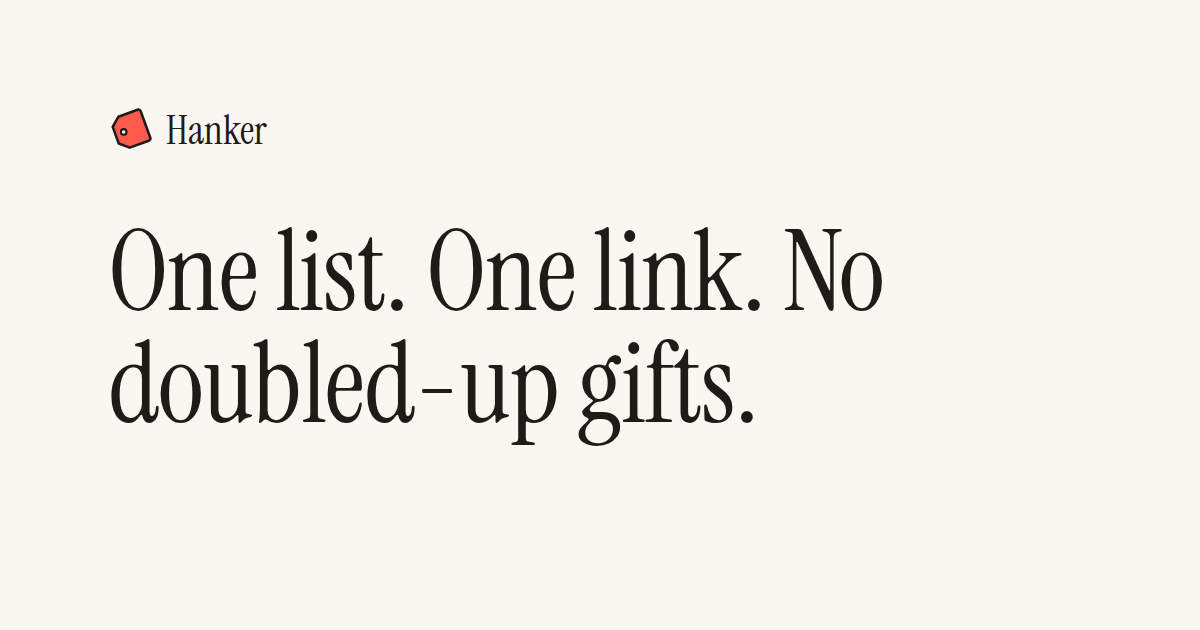
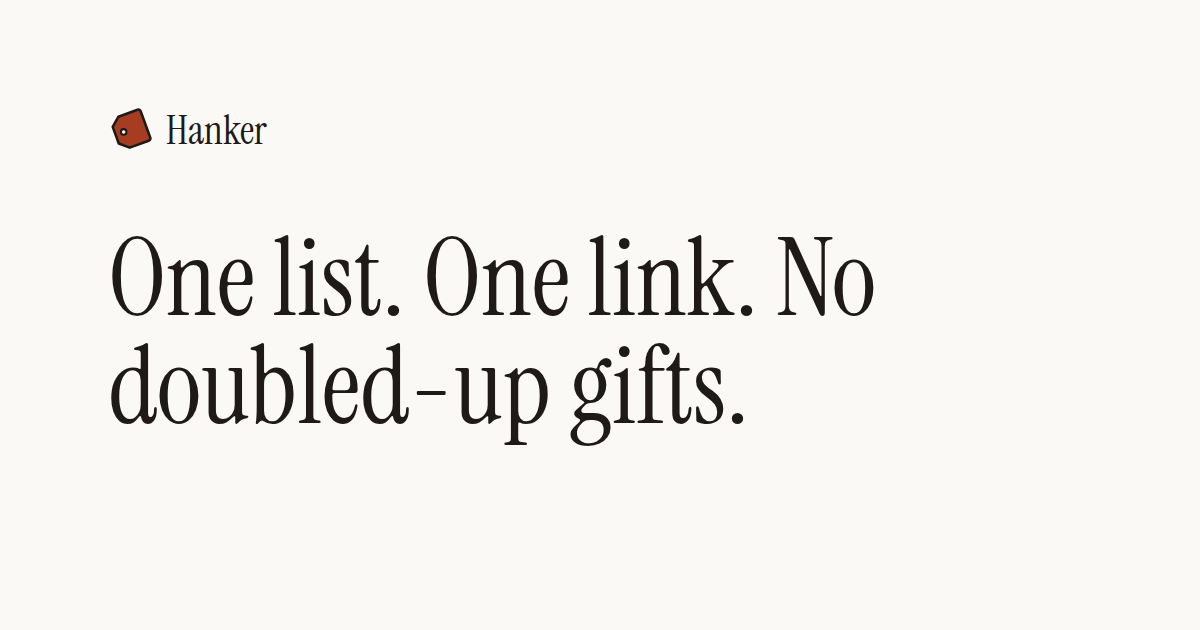
feat(web): move the palette to a deep terracotta with an espresso focus ring (#258)
D89 revises D28's palette and D62's active pills:

- paper #fbf9f5 ground, canvas #f4f0e8 cards with slate #5c554e borders,
  espresso #1f1a17 text
- primary #a63d20 with white text (6.3:1) and a new rust #822e15
  hover/press token
- active filter pills terracotta with white text; inactive pills canvas
  with slate text
- focus rings espresso, 2px with a 2px gap; a focused primary button gets
  a white band inside the ring, with a transparent outline kept for
  forced-colors mode
- favicon, apple-icon and link preview re-rendered in the new colours,
  at Plan 6's sizes and layout

Changed region(s): [[0.0925, 0.3619, 0.74, 0.5127], [0.0925, 0.5429, 0.6475, 0.7238], [0.0925, 0.181, 0.1233, 0.2413]]

diff --git a/apps/web/src/components/ui/button.tsx b/apps/web/src/components/ui/button.tsx
@@ -3,7 +3,12 @@ import type { ComponentProps } from 'react';
 import { cn } from '@/lib/utils';
 
 /**
- * Terracotta for the main action, with espresso text (5.5:1); white on terracotta fails AA.
+ * Terracotta for the main action, with white text (6.3:1), darkening to rust on hover and press.
+ *
+ * A focused primary button gets a dual-layer ring (D89): a white band against the button, then the
+ * espresso ring. The band keeps the ring off terracotta wherever the button sits. The shadow
+ * replaces the base outline, which stays as a transparent outline at the same place, because
+ * forced-colors mode drops shadows and draws the outline in a system color.
  *
  * Hovering lifts a button 1px, and only while hovered an empty strip (`after:`) fills the gap the
  * lift opens below it. So the hovered button covers everywhere the resting one did: otherwise a
@@ -12,11 +17,12 @@ import { cn } from '@/lib/utils';
  * `top-full` starts inside the bottom border: 1px of it covers a bordered button's border.
  */
 const variants = cva(
-  'relative inline-flex items-center justify-center gap-2 rounded-control px-5 text-[15px] font-semibold no-underline transition-[box-shadow,transform] duration-200 after:absolute after:inset-x-0 after:top-full hover:-translate-y-px hover:after:h-0.5 hover:shadow-[0_8px_18px_rgba(30,27,24,0.16)] active:translate-y-0 disabled:pointer-events-none disabled:opacity-60 motion-reduce:hover:translate-y-0',
+  'relative inline-flex items-center justify-center gap-2 rounded-control px-5 text-[15px] font-semibold no-underline transition-[background-color,box-shadow,transform] duration-200 after:absolute after:inset-x-0 after:top-full hover:-translate-y-px hover:after:h-0.5 hover:shadow-[0_8px_18px_rgba(30,27,24,0.16)] active:translate-y-0 disabled:pointer-events-none disabled:opacity-60 motion-reduce:hover:translate-y-0',
   {
     variants: {
       variant: {
-        primary: 'bg-primary text-primary-foreground',
+        primary:
+          'bg-primary text-primary-foreground hover:bg-primary-hover focus-visible:shadow-[0_0_0_2px_var(--primary-foreground),0_0_0_4px_var(--ring)] focus-visible:outline-transparent active:bg-primary-hover',
         secondary: 'border border-border bg-card text-foreground',
         strong: 'bg-foreground text-background',
         link: 'px-0 font-medium underline hover:translate-y-0 hover:shadow-none',

diff --git a/apps/web/src/app/globals.css b/apps/web/src/app/globals.css
@@ -1,21 +1,23 @@
 @import 'tailwindcss';
 
 /*
- * Hanker's Warm Editorial palette (Ted, 2026-10-10; Plan 2b's theme table). The names follow
- * shadcn/ui's semantic tokens, so components copied from it work unchanged. Terracotta (--primary)
- * is for actions only: at 2.9:1 on sand it can't carry text, so text on it is espresso.
+ * Hanker's Warm Editorial palette (D28, revised by D89 on 2026-10-26). The names follow shadcn/ui's
+ * semantic tokens, so components copied from it work unchanged. Terracotta (--primary) is dark
+ * enough to carry white text (6.3:1), and is 5.6:1 as text on a card. Rust (--primary-hover) is
+ * 8.9:1 with white. The espresso ring is 15:1 or more on every surface.
  */
 :root {
-  --background: #faf7f2;
-  --foreground: #1e1b18;
-  --card: #ffffff;
-  --card-foreground: #1e1b18;
-  --primary: #ff5a4d;
-  --primary-foreground: #1e1b18;
+  --background: #fbf9f5;
+  --foreground: #1f1a17;
+  --card: #f4f0e8;
+  --card-foreground: #1f1a17;
+  --primary: #a63d20;
+  --primary-hover: #822e15;
+  --primary-foreground: #ffffff;
   --muted-foreground: #5c554e;
-  --border: #1e1b18;
+  --border: #5c554e;
   --input: #8c847b;
-  --ring: #1e1b18;
+  --ring: #1f1a17;
   --success: #6b8e78;
   --success-foreground: #3f5a49;
   --success-wash: #e6eee8;
@@ -29,6 +31,7 @@
   --color-card: var(--card);
   --color-card-foreground: var(--card-foreground);
   --color-primary: var(--primary);
+  --color-primary-hover: var(--primary-hover);
   --color-primary-foreground: var(--primary-foreground);
   --color-muted-foreground: var(--muted-foreground);
   --color-border: var(--border);
@@ -48,7 +51,7 @@
 @layer base {
   :focus-visible {
     outline: 2px solid var(--ring);
-    outline-offset: 3px;
+    outline-offset: 2px;
   }
 
   a {

diff --git a/apps/web/src/components/share/filter-pill.ts b/apps/web/src/components/share/filter-pill.ts
@@ -1,7 +1,7 @@
 import { cn } from '@/lib/utils';
 
-// The filter row's pills (design §4, mockup A "charcoal when active"): parchment off, espresso on,
-// never terracotta. The button is the 44px hit area; the pill drawn inside it is 40px tall.
+// The filter row's pills (D89): canvas with slate text off, terracotta with white text on. The
+// button is the 44px hit area; the pill drawn inside it is 40px tall.
 
 /** The button around a pill. Its focus ring follows the pill's round ends. */
 export const PILL_HIT =
@@ -12,14 +12,14 @@ export function pillFace(on: boolean, outlined = false): string {
   return cn(
     'inline-flex min-h-10 items-center gap-1.5 rounded-full border px-4 text-[15px] font-medium whitespace-nowrap transition-colors duration-150',
     on
-      ? 'border-foreground bg-foreground text-background'
+      ? 'border-primary bg-primary text-primary-foreground'
       : outlined
         ? 'border-input bg-transparent text-foreground'
-        : 'border-input/30 bg-placeholder text-foreground',
+        : 'border-input/30 bg-card text-muted-foreground',
   );
 }
 
-/** A pill's count: small, tabular, muted; lighter and warm on espresso. */
+/** A pill's count: small, tabular, muted; softened white on terracotta (4.6:1). */
 export function pillCount(on: boolean): string {
-  return cn('text-xs tabular-nums', on ? 'text-placeholder/80' : 'text-muted-foreground');
+  return cn('text-xs tabular-nums', on ? 'text-primary-foreground/80' : 'text-muted-foreground');
 }

diff --git a/apps/web/src/components/list/suggested-tags.tsx b/apps/web/src/components/list/suggested-tags.tsx
@@ -90,7 +90,7 @@ export function SuggestedTags({
         // WCAG 2.5.3 (label in name) forbids. pointer-events-none lets a press on it reach the button.
         <span
           key={chip.key}
-          className="relative inline-flex max-w-full rounded-full border-[1.5px] border-dashed border-input hover:bg-placeholder has-[button:focus-visible]:outline-2 has-[button:focus-visible]:outline-offset-3 has-[button:focus-visible]:outline-ring"
+          className="relative inline-flex max-w-full rounded-full border-[1.5px] border-dashed border-input hover:bg-placeholder has-[button:focus-visible]:outline-2 has-[button:focus-visible]:outline-offset-2 has-[button:focus-visible]:outline-ring"
         >
           <button
             type="button"

diff --git a/apps/web/src/components/list/tag-field.tsx b/apps/web/src/components/list/tag-field.tsx
@@ -235,7 +235,7 @@ function TagCombobox({
             ref={chipRow}
             className={cn(
               'flex min-h-12 flex-wrap items-center gap-1.5 rounded-control border-[1.5px] border-input bg-card px-2 py-1.5',
-              'has-[input:focus-visible]:outline-2 has-[input:focus-visible]:outline-offset-3 has-[input:focus-visible]:outline-ring',
+              'has-[input:focus-visible]:outline-2 has-[input:focus-visible]:outline-offset-2 has-[input:focus-visible]:outline-ring',
               props['aria-invalid'] && 'border-destructive',
             )}
           >

diff --git a/docs/superpowers/specs/2026-10-07-wishlist-app-design.md b/docs/superpowers/specs/2026-10-07-wishlist-app-design.md
@@ -656,7 +656,7 @@ These follow the tags design ([§3, §4](2026-10-21-item-tags-and-filters-design
 - **The filter row** is one client island, `ShareFilterList`, rendered in both the gifter's view (inside `ShareClaimsProvider`) and the owner's view of `/s`. Its filter state lives in the island, so it survives the `router.refresh()` after a claim (D62).
   - The row is in the server HTML, drawn exactly as the first client render draws it, so the cards don't move when the island hydrates. Without JavaScript, CSS hides it (`@media (scripting: none)`, a media query in the stylesheet, so no `<noscript>` markup or inline style is needed), so the page stays readable and every item shows. It scrolls sideways inside itself, and the page never does.
   - It is a `role="group"` labelled "Filter the list": the price pill first, then one chip per tag that at least one item carries, ordered by item count (descending), ties by name with one `Intl.Collator('en')`, so Node and the browser agree.
-  - Chips are `aria-pressed` toggles named like "Kitchen gadgets, 4 items". Active pills are espresso (`--foreground`) with sand text; terracotta never marks a filter.
+  - Chips are `aria-pressed` toggles named like "Kitchen gadgets, 4 items". Active pills are terracotta (`--primary`) with white text, and inactive ones are canvas (`--card`) with slate text (D89, replacing D62's espresso pills).
   - Tags combine with AND and price bands with OR. Each chip shows how many items would be shown with it on, given the other selections, so counts move as you filter. A chip that would show nothing is dimmed and disabled, not removed.
   - Below the row, "N of M items" (a polite live region) and **Clear filters** appear once anything is on. If nothing matches, the list area says so, with a Clear filters button.
   - **Filtered-out cards get `hidden` and stay mounted,** so a card's own state, such as an open claim strip, survives filtering. Claimed items still show and still count.
@@ -692,7 +692,7 @@ These follow the tags design ([§3, §4](2026-10-21-item-tags-and-filters-design
 - Tailwind with shadcn/ui components, which are copied into the repo and built on Radix primitives.
 - Forms use react-hook-form with the shared Zod schemas.
 - The target is WCAG 2.2 AA.
-- The visual direction is **Warm Editorial Minimalism** (D28): a sand ground, espresso type and borders, terracotta for actions only, and sage for fulfilled states. Instrument Serif for headings, Geist for everything else, and 16px cards. The tokens live in `apps/web/src/app/globals.css`. The share page and the editor were mocked up for review before they were built (Plan 3b): the editor uses compact rows (D37), and the share page uses cards.
+- The visual direction is **Warm Editorial Minimalism** (D28, palette revised by D89): a warm paper ground, canvas cards with slate borders, espresso type, a deep terracotta for actions and active filters with white text and a rust hover, an espresso focus ring (a white band inside it on primary buttons), and sage for fulfilled states. Instrument Serif for headings, Geist for everything else, and 16px cards. The tokens live in `apps/web/src/app/globals.css`. The share page and the editor were mocked up for review before they were built (Plan 3b): the editor uses compact rows (D37), and the share page uses cards.
 
 ## 8. Testing
 
@@ -914,7 +914,7 @@ As of 2026-10-07 on the development machine:
 | D25 | `preview-seed` as a schema-only root branch, wiped and migrated from zero, refreshed in place (2026-10-08) | Clone of production then anonymized; a schema-only root branch per PR (exceeds Neon Free's 3 root branches) |
 | D26 | Product name **Hanker** on `hanker.dev` (2026-10-09). The user-facing name changes; code, packages, projects and tables keep `wishlist` | `hanker.app` and `hanker.com` (both registered); keeping the generic "Wishlist" |
 | D27 | A long-lived session cookie (400 days, set only at login); the database's sliding expiry is the only authority (2026-10-10) | A cookie tied to the 30-day session and reissued on refresh, which server-to-server calls lose; the web proxy reissuing it |
-| D28 | Warm Editorial Minimalism: sand, espresso, terracotta and sage, with Instrument Serif and Geist (2026-10-10) | Six mocked directions: Wish Book, Ribbon, Candlelight, Folio, Board, Letter |
+| D28 | Warm Editorial Minimalism: sand, espresso, terracotta and sage, with Instrument Serif and Geist (2026-10-10; **palette revised by D89**) | Six mocked directions: Wish Book, Ribbon, Candlelight, Folio, Board, Letter |
 | D29 | Go-live in two steps: the domain, DNS, Resend and the Turnstile widget in Plan 2b; the Turnstile secret, which opens sign-up, in Plan 3 (2026-10-10; **amended by D31**) | Opening sign-up in Plan 2b, before there is a list to make |
 | D30 | Plan 3 split into 3a, the owner API (shipped dark), and 3b, the editor and settings UI (2026-10-12) | One Plan 3, with a final review the size of Plan 2b's and stacks past Neon's preview cap |
 | D31 | Sign-up opens at the end of Plan 4, once a list can be shared and claimed; amends D29 (2026-10-12) | The end of Plan 3 with the share link hidden; a read-only share page pulled forward from Plan 4 |
@@ -948,7 +948,7 @@ As of 2026-10-07 on the development machine:
 | D59 | Tag names are shown as typed, a leading `#` included, matched case-insensitively after whitespace is collapsed, and limited to 30 characters, 10 per item and 50 per list (Ted, 2026-10-21) | Hashtag-style slugs; dropping a leading `#` so "#books" joins "books" (the first design, changed before merge) |
 | D60 | Item saves send existing tags by id and new ones by name, and a stale id is dropped (Ted, 2026-10-21) | Names only, which recreates deleted tags |
 | D61 | The share page's price filter reads the number out of `priceText` in the browser, for dollar-scale currencies only (`$`, `US$`, `CA$`, `A$`, `NZ$`, `£`, `€`) (Ted, 2026-10-21) | A stored numeric price (the display string is unchanged, so the "prices are display strings" non-goal holds); bands for every currency, which would put nearly all of a yen list in "100+" |
-| D62 | The filter row has charcoal active pills, tags that combine with AND, price bands with OR, and live counts (Ted, 2026-10-21) | Terracotta active pills, which would read as an action |
+| D62 | The filter row has charcoal active pills, tags that combine with AND, price bands with OR, and live counts (Ted, 2026-10-21; **active pills changed to terracotta by D89**) | Terracotta active pills, which would read as an action |
 | D63 | The Tags view is a tag-first bottom sheet: pick a tag, then tick its items (Ted, 2026-10-21) | Per-item batch selection, picking items first and then their tags |
 | D64 | Amazon product links are looked up through Bright Data's Amazon dataset, sent only `https://www.amazon.com/dp/<ASIN>`, within 30 seconds ([design](2026-10-22-retailer-lookups-design.md), Ted, 2026-10-22). Hanker's own requests still never impersonate a browser | The Product Advertising API, which needs affiliate sales; Amazon-specific HTML parsing, since production is served a bot check |
 | D65 | Etsy listings are looked up through Etsy's Open API v3 with a Personal App (Plan 8b), sent only the listing ID, within 5 seconds (Ted, 2026-10-22) | The page fetch, which DataDome answers with `403` |
@@ -969,3 +969,4 @@ As of 2026-10-07 on the development machine:
 | D80 | A linked claim that disappears leaves a note on Your gifts until cleared, for about 30 days, through `claim_id … ON DELETE SET NULL` ([design](2026-10-23-your-gifts-and-owner-totals-design.md), Claude's call, 2026-10-23) | Silently dropping it; keeping notes forever |
 | D81 | A signed-in claim's name is prefilled from the display name and editable, and kept per claim ([design](2026-10-23-your-gifts-and-owner-totals-design.md), Ted, 2026-10-23) | Always the account's display name |
 | D82 | A signed-in owner who opens a manage link for a claim on their own list gets no claim data, and can't change or cancel it from that session (`403 OWN_LIST_CLAIM`); signed out, they're a guest (Ted: hide the name; Claude: hide everything, 2026-10-23) | Hiding only the name, which still tells an owner with the setting off that something is claimed; leaving `/c` as the capability holder's view |
+| D89 | The palette moves to a deep terracotta: paper `#FBF9F5`, canvas cards `#F4F0E8` with slate `#5C554E` borders, espresso `#1F1A17` text, terracotta `#A63D20` with white text and a rust `#822E15` hover for actions and active filter pills, and the favicon to match. Focus rings are espresso, 2px with a 2px gap; a focused primary button gets a white band inside the ring. Text pairs meet AA, and every ring is 15:1 or more (Ted, 2026-10-26) | D28's coral `#FF5A4D` with espresso labels, which can't carry white text; an amber `#D97706` ring, 2.8:1 on canvas cards; D62's espresso active pills |

diff --git a/AGENTS.md b/AGENTS.md
@@ -74,7 +74,7 @@ Don't weaken or delete a test to get green. If a test is wrong, say why.
   - **Tags (Plan 7b):** the share page filters in one client island, `ShareFilterList`. Its logic is in `lib/share-filters.ts` and `parsePrice` in contracts. Filtered cards are `hidden`, never unmounted. The edit form sends `tags` only when the tag field changed, and the add form only when it has some. Tag changes are mutations in `lib/list-mutations.ts`.
   - **Add box (Plan 9):** a link and an idea both open the add form (`add-item.tsx`); an idea is never saved at once. Suggested tags come from `use-tag-suggestions.ts`: one request when a form mounts with a title and another when the title loses focus with a new one, and only the latest answer is shown.
   - Error copy lives in `src/lib/messages.ts`, and field-validation copy in `src/lib/form-errors.ts`.
-  - UI pieces are hand-copied, shadcn/ui-style, in `src/components/ui`, on the theme tokens in `globals.css`. Terracotta (`primary`) never carries text.
+  - UI pieces are hand-copied, shadcn/ui-style, in `src/components/ui`, on the theme tokens in `globals.css`. Text on terracotta (`primary`) is white (`primary-foreground`), and focus rings are espresso; a focused primary button adds a white band inside the ring (D89).
 
 ## Git and pull requests
 
